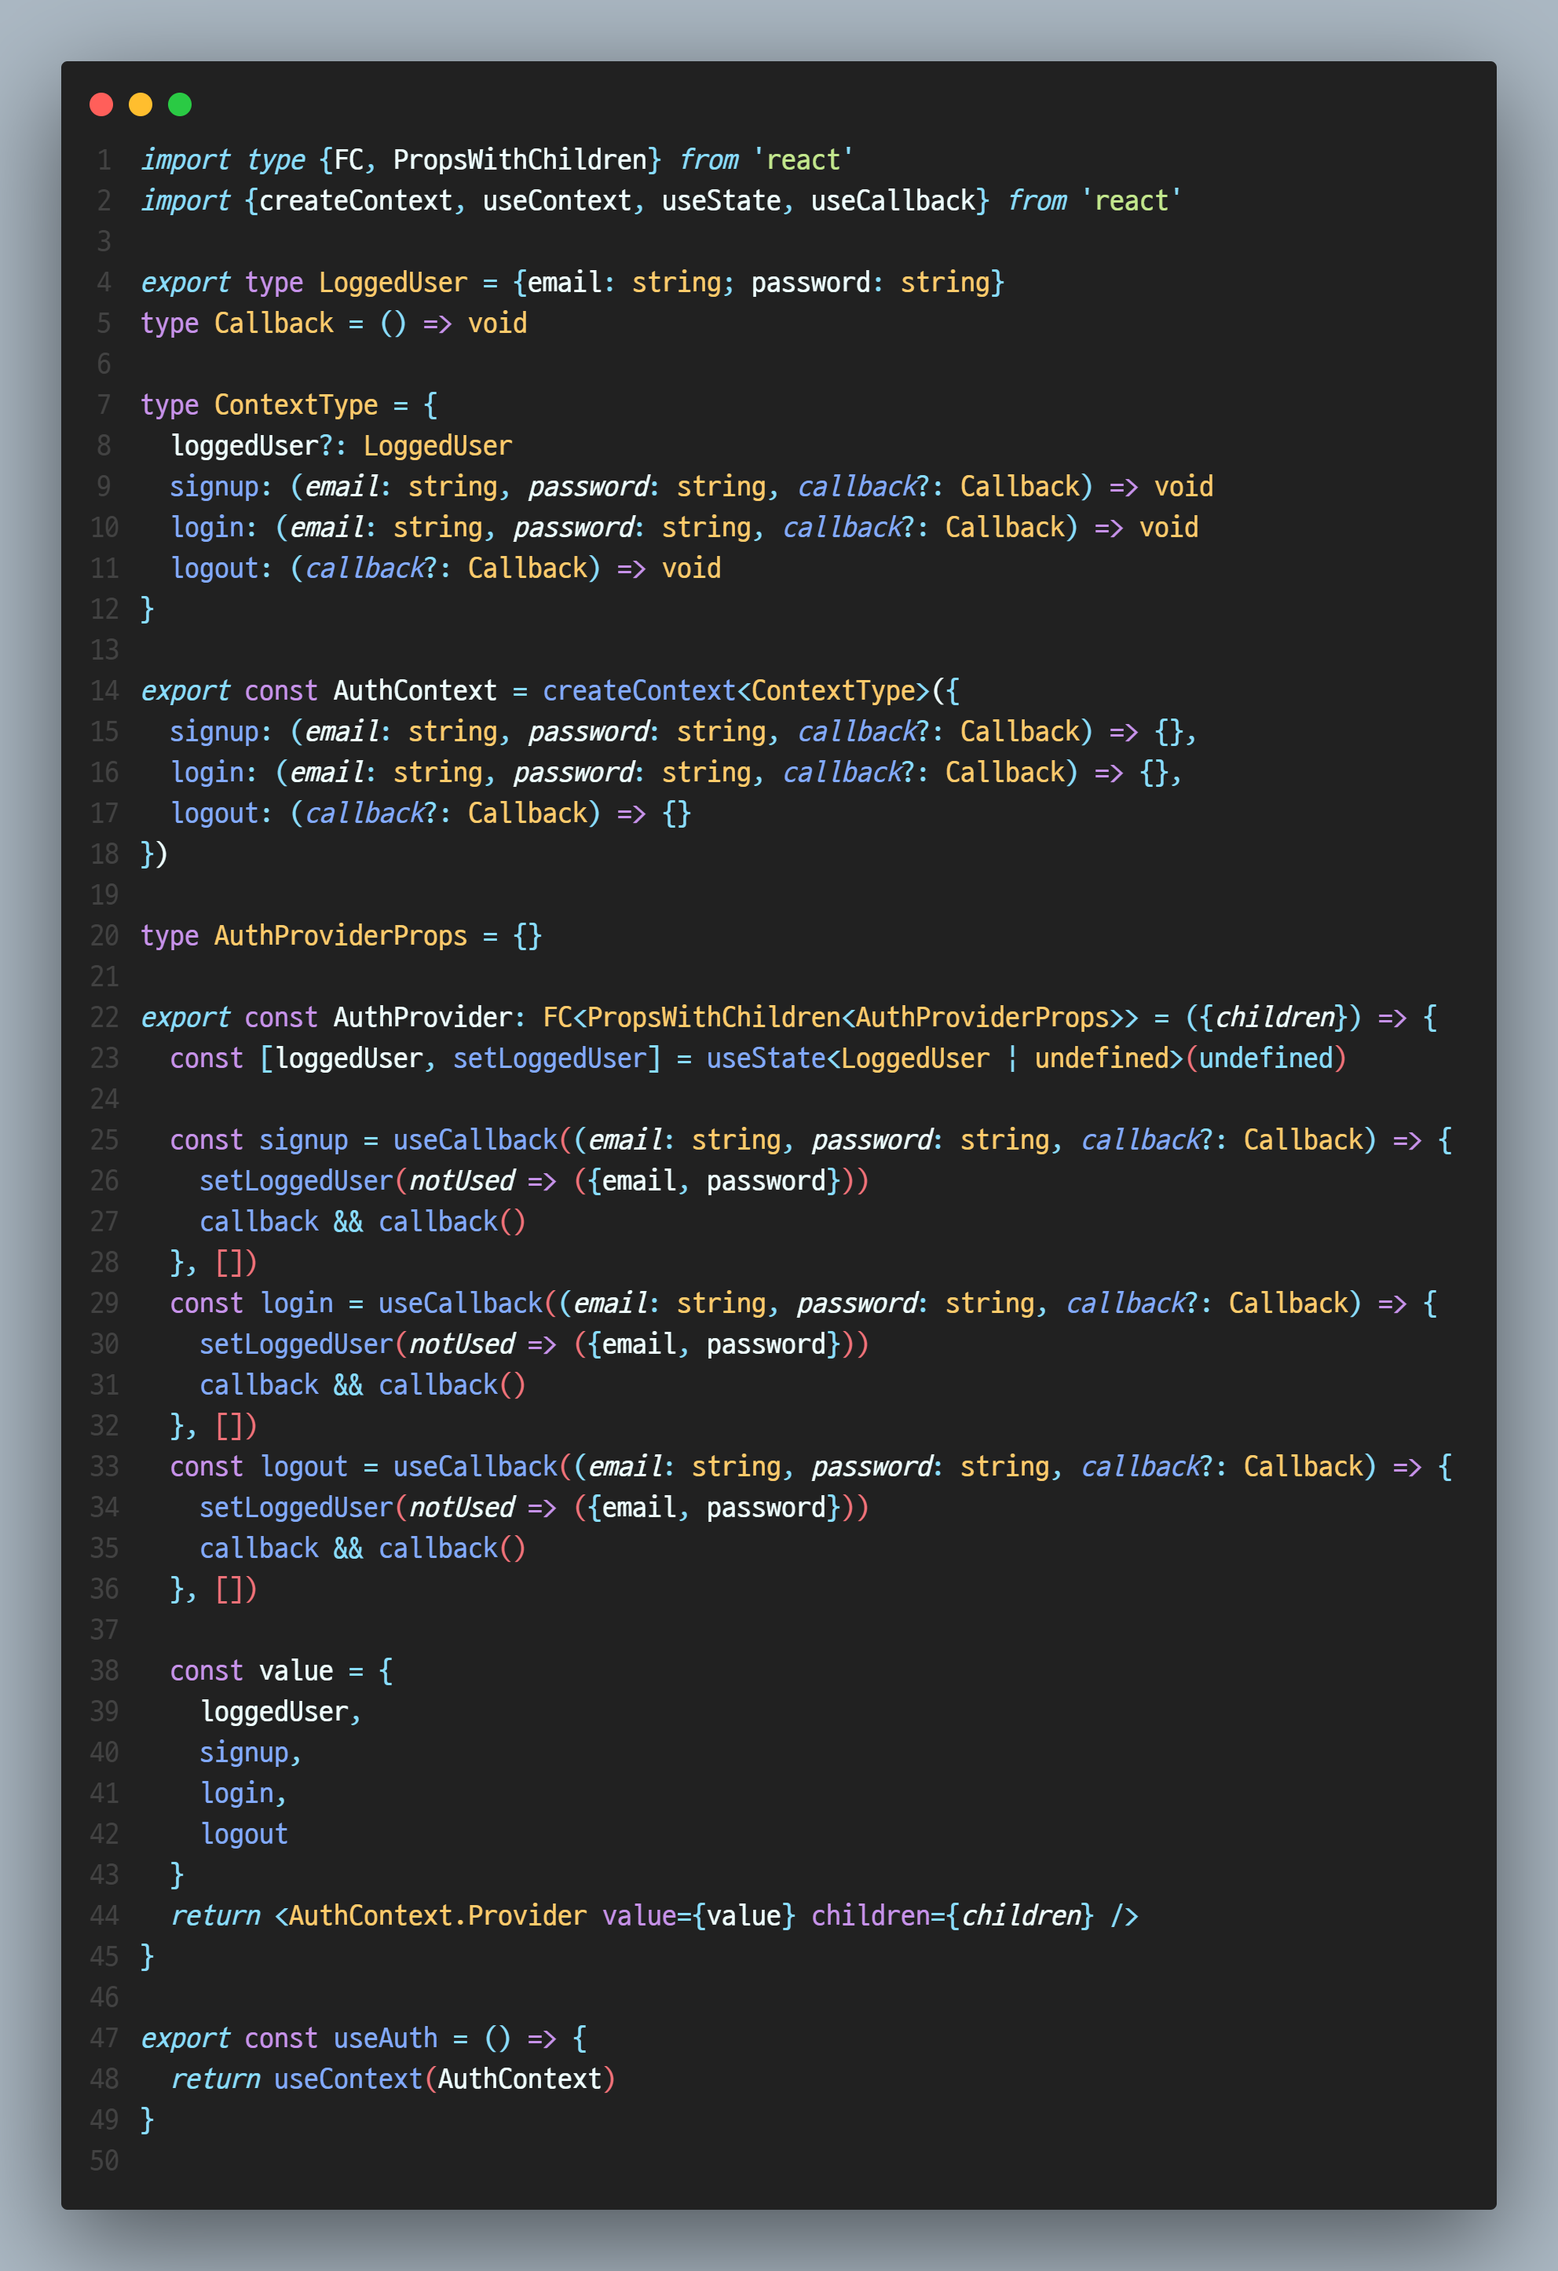
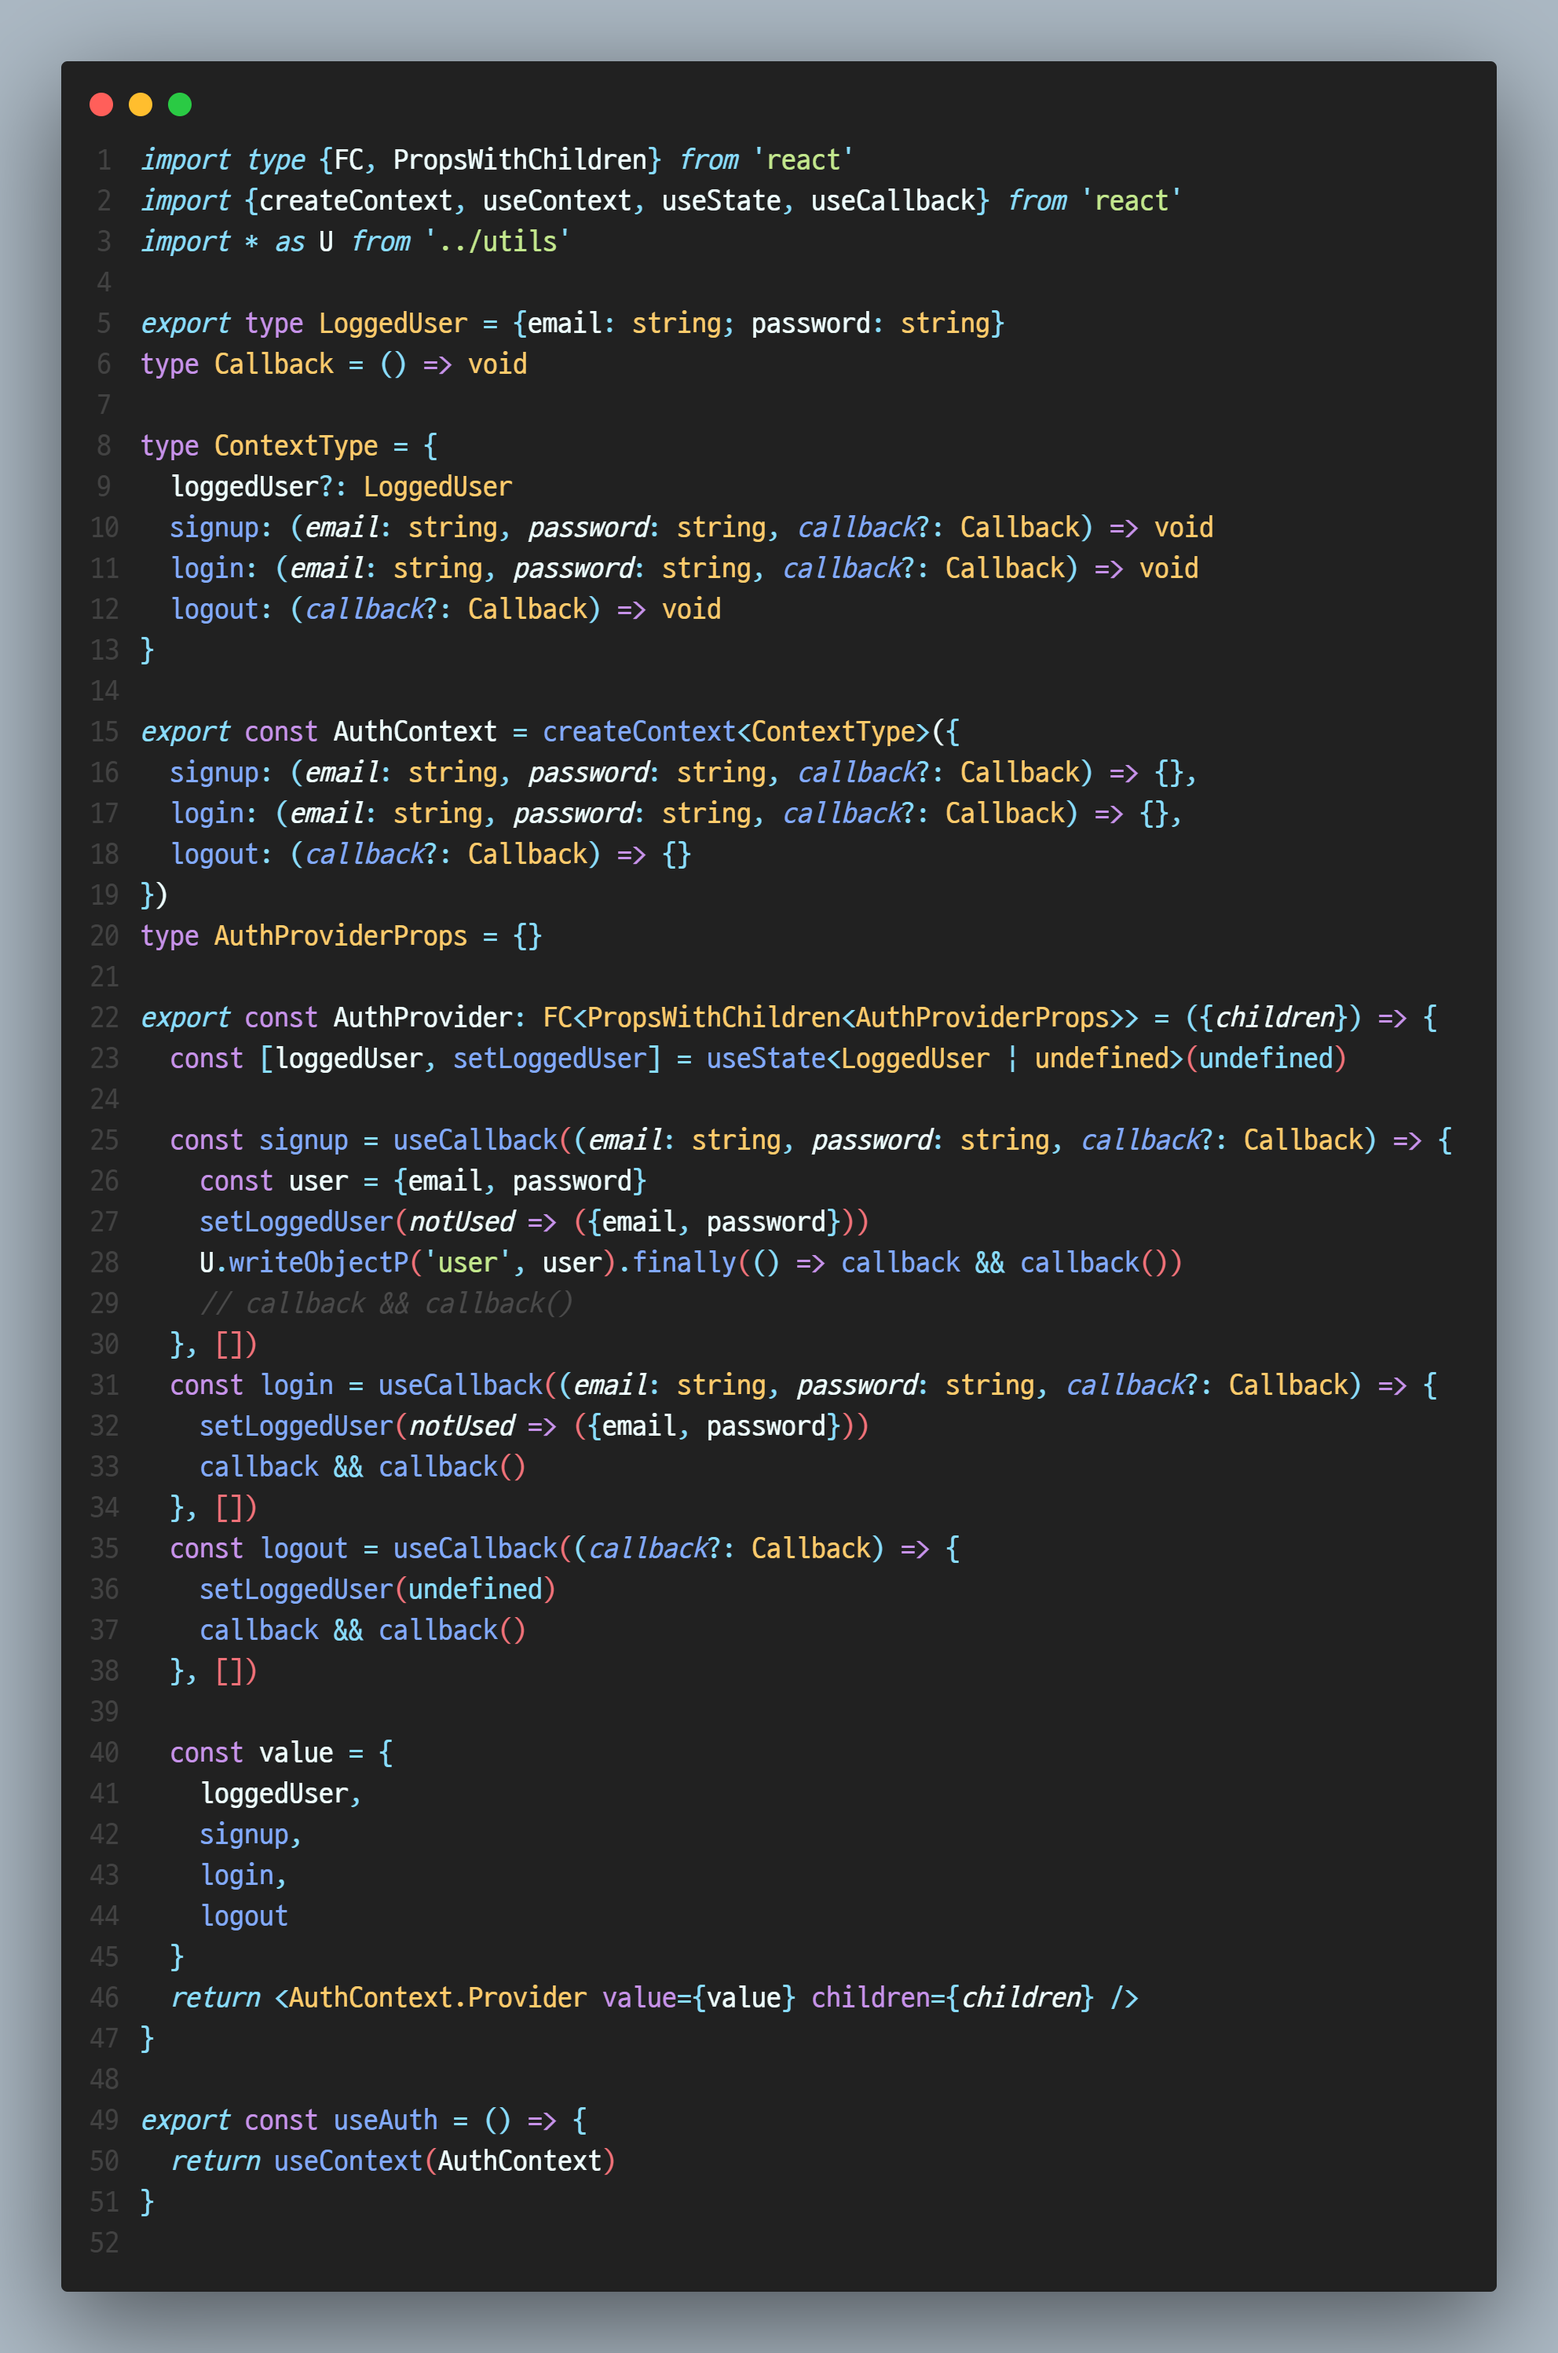
unfinished08 06.리액트 라우터_06-3.공개 라우트와 비공개 라우트 구현하기

diff --git a/ch06/ch06_3/src/routes/Auth/Logout.tsx b/ch06/ch06_3/src/routes/Auth/Logout.tsx
@@ -6,14 +6,36 @@ import {useAuth} from '../../contexts'
 import {Button} from '../../theme/daisyui'
 
 export default function Logout() {
-  const [open, toggleOepn] = useToggle(true)
+  const [open, toggleOpen] = useToggle(true)
 
   const navigate = useNavigate()
   const {logout} = useAuth()
   const onAccept = useCallback(() => {
     logout(() => {
-      toggleOepn() // 대화 상자 닫기
+      toggleOpen() // 대화 상자 닫기
       navigate('/') // 홈 페이지로 이동
     })
-  })
+  }, [navigate, toggleOpen, logout])
+  const onCancel = useCallback(() => {
+    toggleOpen() // 대화 상자 닫기
+    navigate(-1) // 이전 페이지로 돌아감
+  }, [navigate, toggleOpen])
+
+  return (
+    <Modal open={open}>
+      <ModalContent
+        closeIconClassName="btn-primary btn-outline"
+        onCloseIconClicked={onCancel}>
+        <p className="text-xl text-center">Are you sure you want to log out?</p>
+        <ModalAction>
+          <Button className="btn-primary btn-sm" onClick={onAccept}>
+            LOGOUT
+          </Button>
+          <Button className="btn-secondary btn-sm" onClick={onCancel}>
+            CANCEL
+          </Button>
+        </ModalAction>
+      </ModalContent>
+    </Modal>
+  )
 }

diff --git a/ch06/ch06_3/src/contexts/AuthContext.tsx b/ch06/ch06_3/src/contexts/AuthContext.tsx
@@ -17,7 +17,6 @@ export const AuthContext = createContext<ContextType>({
   login: (email: string, password: string, callback?: Callback) => {},
   logout: (callback?: Callback) => {}
 })
-
 type AuthProviderProps = {}
 
 export const AuthProvider: FC<PropsWithChildren<AuthProviderProps>> = ({children}) => {
@@ -33,8 +32,8 @@ export const AuthProvider: FC<PropsWithChildren<AuthProviderProps>> = ({children
     setLoggedUser(notUsed => ({email, password}))
     callback && callback()
   }, [])
-  const logout = useCallback((email: string, password: string, callback?: Callback) => {
-    setLoggedUser(notUsed => ({email, password}))
+  const logout = useCallback((callback?: Callback) => {
+    setLoggedUser(undefined)
     callback && callback()
   }, [])
 

diff --git a/ch06/ch06_3/src/routes/Auth/RequireAuth.tsx b/ch06/ch06_3/src/routes/Auth/RequireAuth.tsx
@@ -1,8 +1,3 @@
-export default function CopyMe() {
-  return (
-    <section className="mt-4">
-      <h2 className="text-5xl font-bold text-center">CopyMe</h2>
-      <div className="mt-4"></div>
-    </section>
-  )
-}
+import type {FC, PropsWithChildren} from 'react'
+import {useEffect} from 'react'
+import {useNavigate} from 'react-router-dom'
